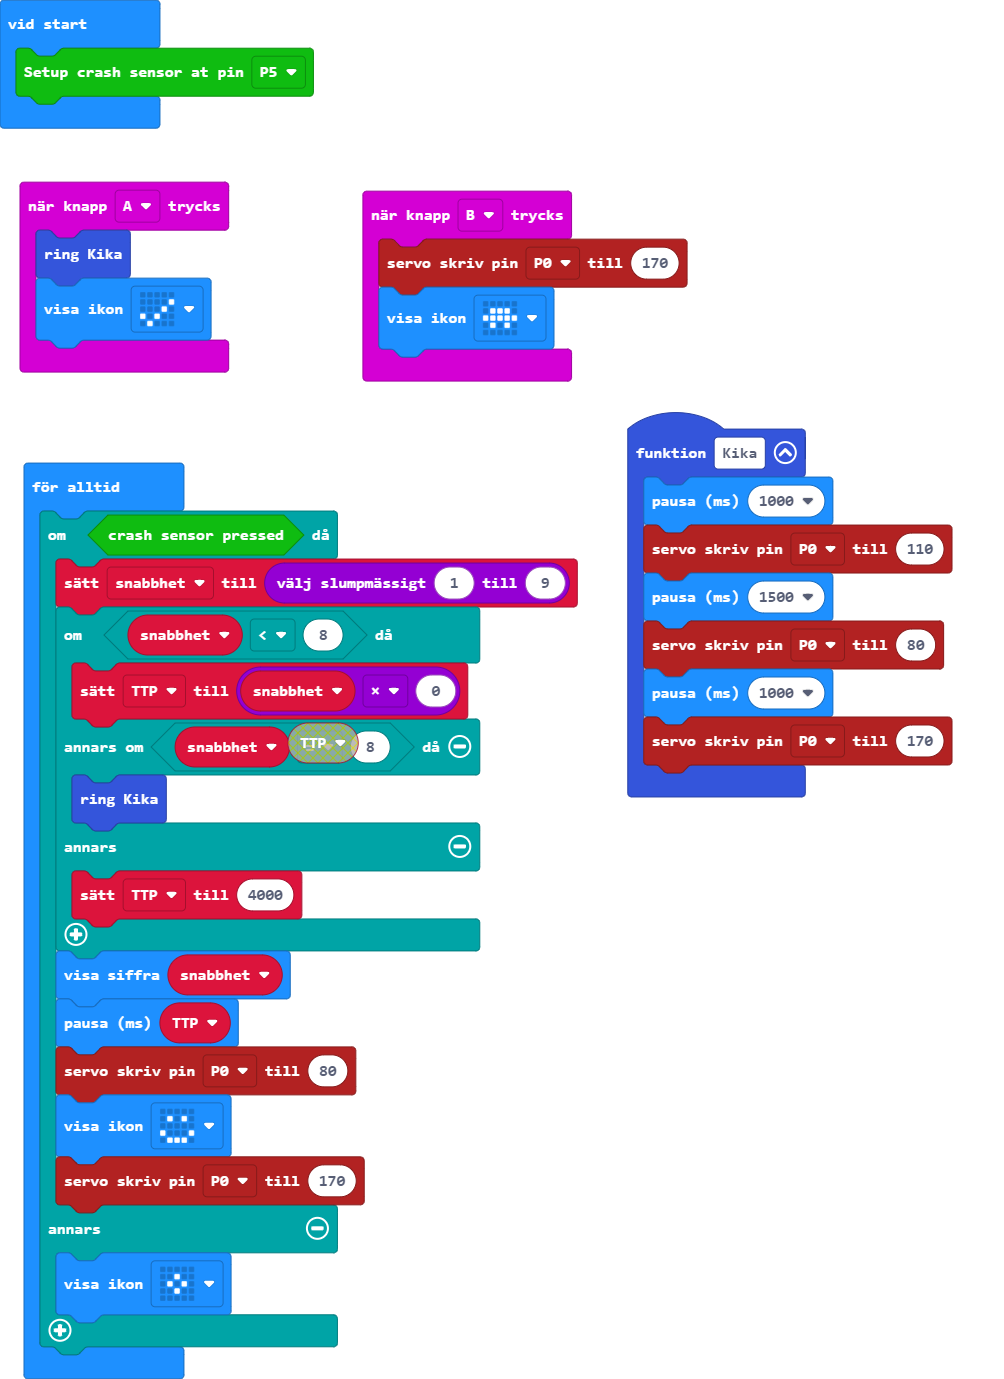
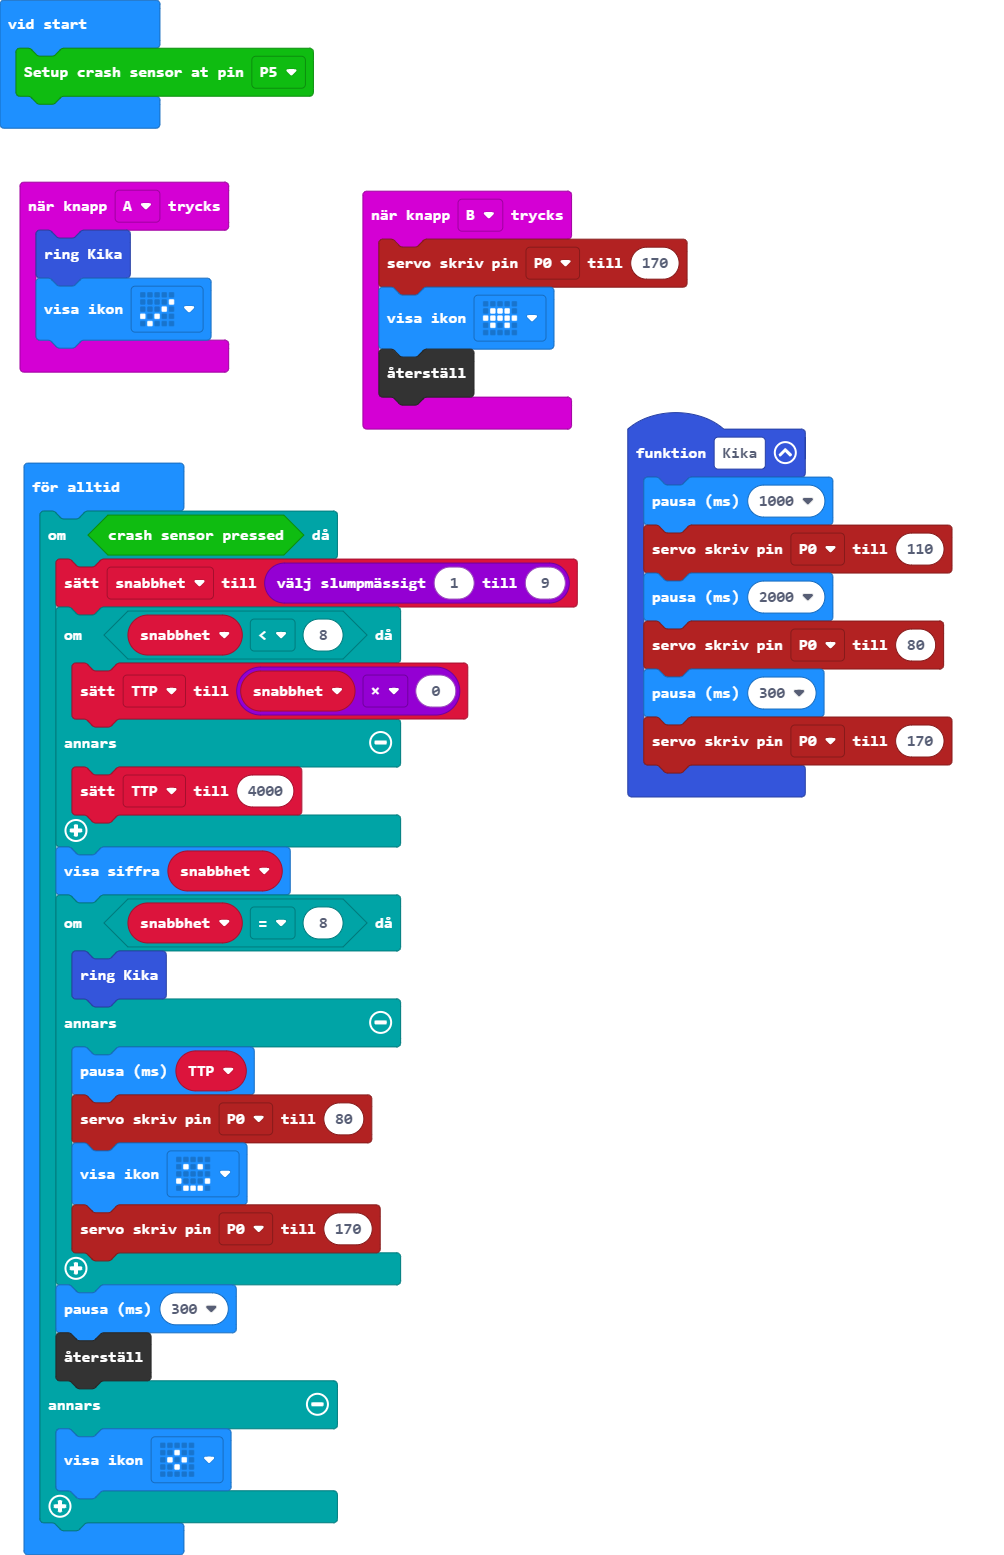
lagt till reset

Changed region(s): [[0.0, 0.0, 0.5867, 0.9978], [0.6175, 0.2495, 0.9572, 0.5925], [0.3396, 0.1247, 0.7102, 0.2806]]

diff --git a/main.ts b/main.ts
@@ -5,13 +5,14 @@ input.onButtonPressed(Button.A, function () {
 input.onButtonPressed(Button.B, function () {
     pins.servoWritePin(AnalogPin.P0, 170)
     basic.showIcon(IconNames.Tortoise)
+    control.reset()
 })
 function Kika () {
     basic.pause(1000)
     pins.servoWritePin(AnalogPin.P0, 110)
-    basic.pause(1500)
+    basic.pause(2000)
     pins.servoWritePin(AnalogPin.P0, 80)
-    basic.pause(1000)
+    basic.pause(300)
     pins.servoWritePin(AnalogPin.P0, 170)
 }
 let TTP = 0
@@ -22,16 +23,20 @@ basic.forever(function () {
         snabbhet = randint(1, 9)
         if (snabbhet < 8) {
             TTP = snabbhet * 0
-        } else if (snabbhet == 8) {
-            Kika()
         } else {
             TTP = 4000
         }
         basic.showNumber(snabbhet)
-        basic.pause(TTP)
-        pins.servoWritePin(AnalogPin.P0, 80)
-        basic.showIcon(IconNames.Happy)
-        pins.servoWritePin(AnalogPin.P0, 170)
+        if (snabbhet == 8) {
+            Kika()
+        } else {
+            basic.pause(TTP)
+            pins.servoWritePin(AnalogPin.P0, 80)
+            basic.showIcon(IconNames.Happy)
+            pins.servoWritePin(AnalogPin.P0, 170)
+        }
+        basic.pause(300)
+        control.reset()
     } else {
         basic.showIcon(IconNames.SmallDiamond)
     }
